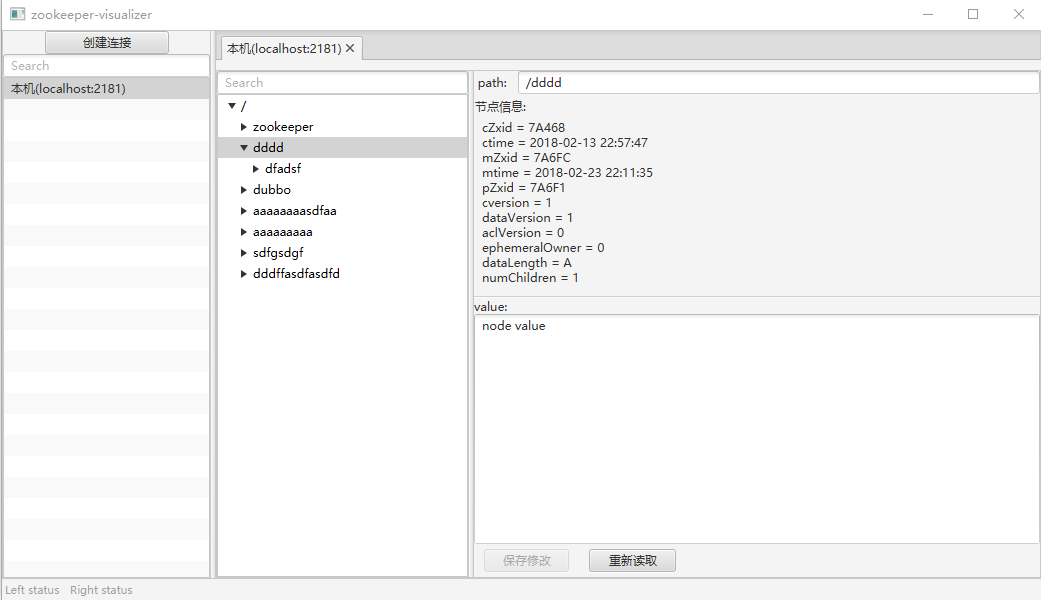
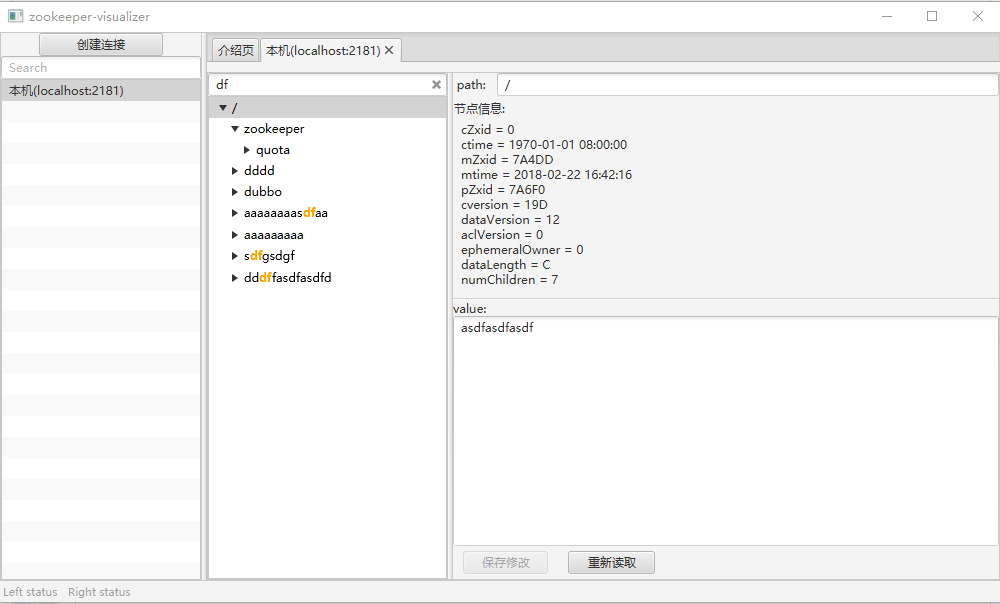
[init]增加图片解释, 新增介绍页

Changed region(s): [[0.0, 0.0, 1.0, 1.0]]

diff --git a/src/main/java/com/xin/controller/RootController.java b/src/main/java/com/xin/controller/RootController.java
@@ -12,6 +12,7 @@ import javafx.fxml.Initializable;
 import javafx.scene.Parent;
 import javafx.scene.Scene;
 import javafx.scene.control.ContextMenu;
+import javafx.scene.control.Hyperlink;
 import javafx.scene.control.ListCell;
 import javafx.scene.control.ListView;
 import javafx.scene.control.MenuItem;
@@ -21,10 +22,15 @@ import javafx.scene.input.MouseEvent;
 import javafx.stage.Modality;
 import javafx.stage.Stage;
 import javafx.util.Callback;
+import lombok.extern.slf4j.Slf4j;
 import org.I0Itec.zkclient.ZkClient;
+import org.apache.commons.io.IOUtils;
+import org.controlsfx.control.HyperlinkLabel;
 
 import java.io.IOException;
+import java.net.URI;
 import java.net.URL;
+import java.nio.charset.StandardCharsets;
 import java.util.ResourceBundle;
 import java.util.function.Consumer;
 import java.util.function.Predicate;
@@ -33,6 +39,7 @@ import java.util.function.Predicate;
  * @author linxixin@cvte.com
  * @since 1.0
  */
+@Slf4j
 public class RootController implements Initializable {
 
     /**
@@ -41,12 +48,21 @@ public class RootController implements Initializable {
     public ListView<ConfUtil.Conf> confListView;
     public TextField               filterTextField;
     public TabPane                 connectTabPane;
-
+    public HyperlinkLabel          welcomeInfo;
 
     @Override
     public void initialize(URL location, ResourceBundle resources) {
-
         try {
+            welcomeInfo.setText(IOUtils.toString(RootController.class.getClassLoader().getResource("welcomeInfo.txt").toURI(), StandardCharsets.UTF_8));
+            welcomeInfo.setOnAction(event -> {
+                Hyperlink link = (Hyperlink) event.getSource();
+                final String str = link.getText();
+                try {
+                    java.awt.Desktop.getDesktop().browse(new URI(str));
+                } catch (Exception e) {
+                    log.error("打开github网页失败", e);
+                }
+            });
             confListView.setItems(FXCollections.observableArrayList(ConfUtil.load()));
             ContextMenu cm = getContextMenu();
             confListView.setOnMouseClicked(new EventHandler<MouseEvent>() {
@@ -148,7 +164,7 @@ public class RootController implements Initializable {
                 TextField idTextField = (TextField) root.lookup("#idTextField");
                 idTextField.setText(selectedItem.getId());
                 stage.setTitle("zk配置修改");
-            } else{
+            } else {
                 stage.setTitle("zk配置新增");
             }
             stage.initModality(Modality.APPLICATION_MODAL);

diff --git a/src/main/java/com/xin/ZookeeperVisualizer.java b/src/main/java/com/xin/ZookeeperVisualizer.java
@@ -7,6 +7,7 @@ import javafx.application.Application;
 import javafx.fxml.FXMLLoader;
 import javafx.scene.Parent;
 import javafx.scene.Scene;
+import javafx.scene.image.Image;
 import javafx.stage.Stage;
 import lombok.extern.slf4j.Slf4j;
 
@@ -25,6 +26,7 @@ public class ZookeeperVisualizer extends Application {
             Parent root = FXMLLoader.load(getClass().getResource("/root.fxml"));
 
             primaryStage.setTitle("zookeeper-visualizer");
+            primaryStage.getIcons().add(new Image(ZookeeperVisualizer.class.getClassLoader().getResourceAsStream("icons/root.png")));
             Scene scene = new Scene(root);
             primaryStage.setScene(scene);
             primaryStage.show();
